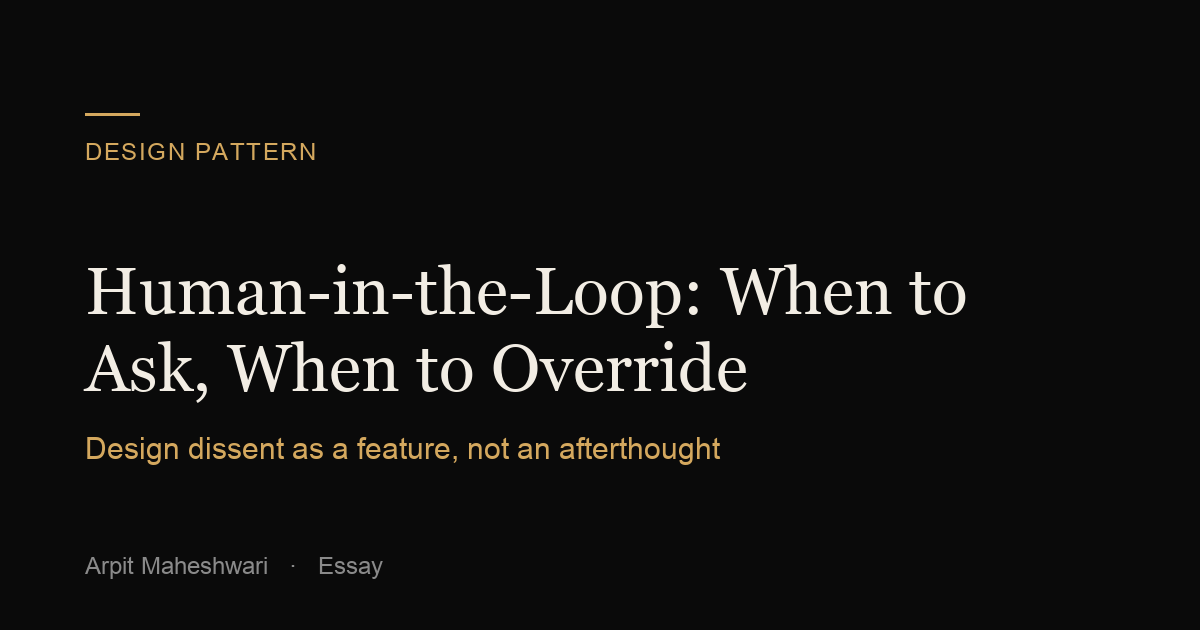
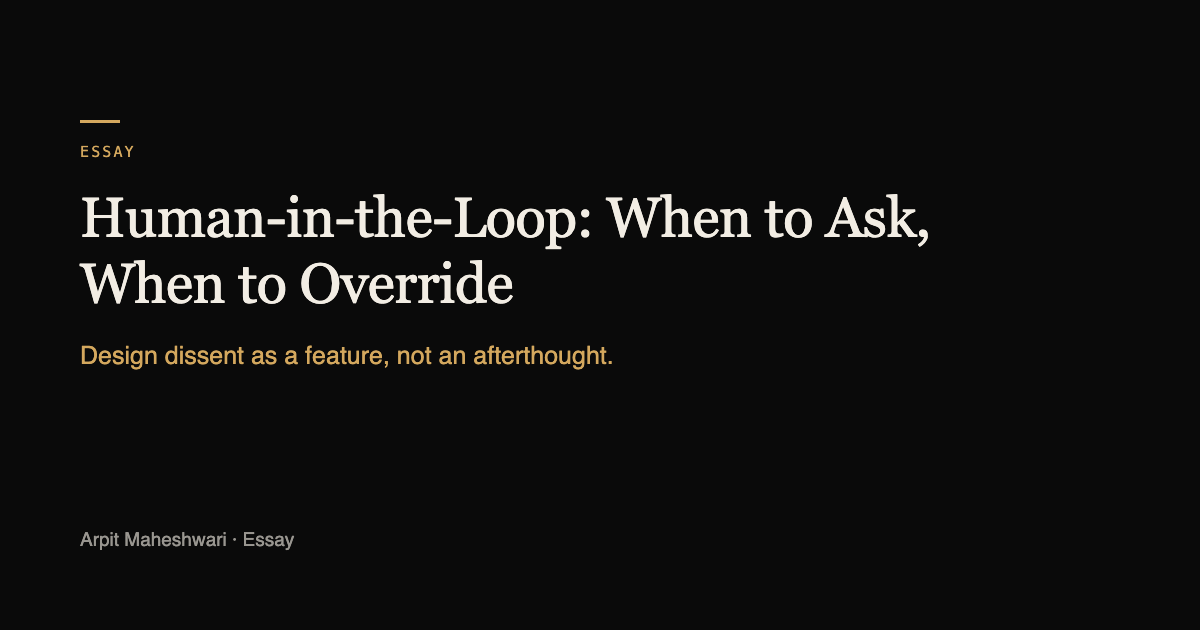
[share cards] a claim on the failure-states card that the essay never makes
The card that renders when writing/failure-states.html is shared read "AI is wrong
30-70% of the time. Design for it." The essay says no such thing — its own sentence is
that the happy path is about 30% of the real work. A hand-made card had drifted into a
sweeping, indefensible claim about AI in general, on the most public surface the essay
has, and no gate reads pixels.

The three remaining essay cards are now in the generator's registry, sourced from their
pages: the false subtitle is replaced by the essay's own line, and all four essays stop
being labelled "DESIGN PATTERN". writing/failure-states.html's og:description no longer
leads on the unattested "94% demo" either, so page and card now agree.

NOT changed, and why: home-og.png, book-og.png, lab-og.png and screen-og.png are bespoke
designs, not template shapes. Flattening them into the generic card would be a downgrade,
so they stay hand-made and outside the registry. home-og.png has two real defects to
settle separately — it still reads "PRODUCT & DESIGN LEADER" rather than the Staff /
Principal IC positioning chosen on 2026-08-29, and "won't" is baked in with a straight
apostrophe, which no text gate can ever see.

diff --git a/writing/failure-states.html b/writing/failure-states.html
@@ -6,7 +6,7 @@
   <title>Design the Failure State First — Arpit Maheshwari</title>
   <meta name="description" content="How to design what an AI product says when it cannot deliver — honest failure states that keep users from leaving.">
   <meta property="og:title" content="Design the Failure State First">
-  <meta property="og:description" content="A 94% demo became a coin-flip on real data. The failure state is where trust is won or lost — so I design it first.">
+  <meta property="og:description" content="The failure state is where trust is won or lost — so I design it first.">
   <meta property="og:url" content="https://arpitmaheshwari.com/writing/failure-states.html">
   <meta property="og:type" content="article">
   <meta property="og:image" content="https://arpitmaheshwari.com/assets/og-images/failure-states-og.png">

diff --git a/tools/generate-og-cards.py b/tools/generate-og-cards.py
@@ -54,6 +54,18 @@ REG = [
     #     essay cards (explainability, failure-states, human-in-loop) are still unmanaged.
     ("confidence-scoring-og.png", "ESSAY", "The Model Was Right. I Fixed the Wrong Thing.",
      "Adoption is not a function of accuracy.", "Arpit Maheshwari \u00b7 Essay"),
+    # The other three essay cards, brought in 2026-08-30. All were hand-made, all were
+    # labelled "DESIGN PATTERN" on an essay, and failure-states carried a subtitle its own
+    # page never says — "AI is wrong 30-70% of the time", a sweeping claim about AI in
+    # general, on the image that renders when the essay is shared. Its replacement is the
+    # essay's own sentence. The unattested "94% demo" figure is left for Arpit to attest or
+    # retire; it is not repeated on the card.
+    ("failure-states-og.png", "ESSAY", "Design the Failure State First",
+     "The failure state is where trust is won or lost.", "Arpit Maheshwari \u00b7 Essay"),
+    ("human-in-loop-og.png", "ESSAY", "Human-in-the-Loop: When to Ask, When to Override",
+     "Design dissent as a feature, not an afterthought.", "Arpit Maheshwari \u00b7 Essay"),
+    ("explainability-og.png", "ESSAY", "The Explainability Layer: Making AI Legible",
+     "Reasons on the card, not buried in a tooltip.", "Arpit Maheshwari \u00b7 Essay"),
     # --- /fit/ (added 2026-08-17 with the page; a page shipped without a card falls back to
     #     a personal photo as its share image, which is the defect this generator was built for)
     ("fit-og.png", "FIT CHECK", "Paste the role. It answers with evidence, or says it can\u2019t.",
